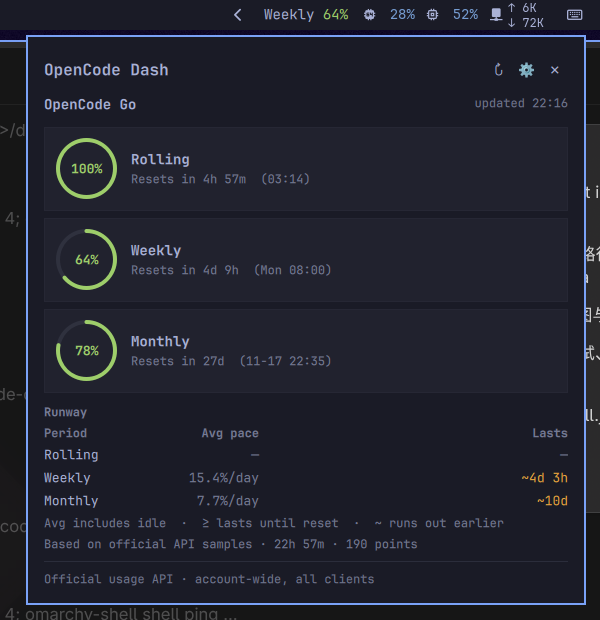
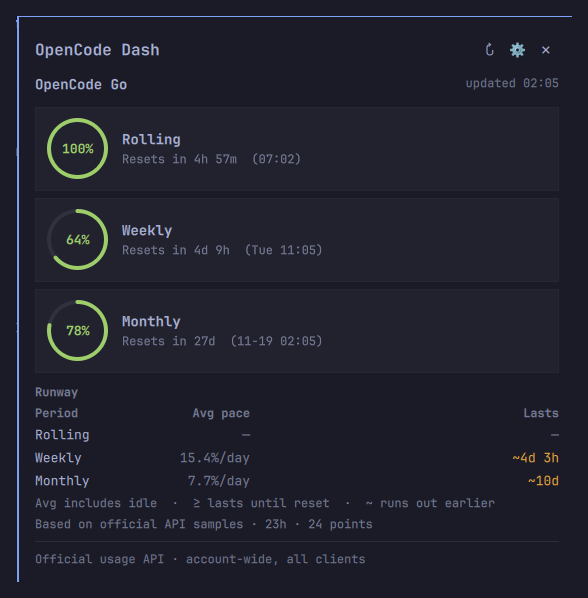
Show all UI states in README screenshots

Changed region(s): [[0.0, 0.0, 1.0, 1.0], [0.4286, 0.3913, 0.551, 0.4515], [0.3367, 0.6622, 0.4286, 0.7224]]

diff --git a/README.md b/README.md
@@ -1,10 +1,20 @@
 # OpenCode Dash
 
-[English](#english) · [中文](#中文)
+[UI](#ui) · [English](#english) · [中文](#中文)
 
-| Dark theme | Light theme |
-|---|---|
-| ![Dark theme](preview.png) | ![Light theme](preview-light.png) |
+## UI
+
+**Bar · 顶栏** — always visible; `worst` and `month` show the period and reset countdown on two lines. / 始终可见；`worst` / `month` 分两行显示周期和重置倒计时。
+![Bar](preview-bar.png)
+
+**Tooltip · 悬停提示** — hover for all periods, reset countdowns, and runway. / 悬停查看三个周期、重置倒计时和 runway。
+![Tooltip](preview-tooltip.png)
+
+**Panel · 面板** — click for quota cards, reset times, and runway. / 点击查看额度卡片、重置时间和 runway。
+![Panel](preview.png)
+
+**Settings · 设置** — gear in the panel or right-click the widget. / 面板齿轮或右键打开。
+![Settings](preview-settings.png)
 
 ## English
 
@@ -16,10 +26,12 @@ any future agent.
 ### Features
 
 - Bar display: `worst` (least remaining), `all` periods, or `month` only.
+- In `worst` / `month` modes the bar shows the period on its own line and the
+  percentage + reset countdown below it; `all` mode stays on one line.
 - Remaining percentage by default; switch to used in the settings.
-- Status colors: healthy green, remaining ≤ 20% amber, ≤ 10% red with `!`.
-  In single-period modes the percentage and reset countdown share the status
-  color; the period label stays dim.
+- Status colors (defaults): healthy green, remaining ≤ 20% amber, ≤ 10% red
+  with `!`. In single-period modes the percentage and reset countdown share the
+  status color; the period label stays dim.
 - Panel: three quota periods, reset times/countdowns, and a Runway table
   (`Period · Avg pace · Lasts`) projecting how long the current rate can last.
 - Threshold notifications through `notify-send`, deduplicated per period,
@@ -34,8 +46,8 @@ any future agent.
 
 | Layer | Interaction | What it shows | Purpose |
 |---|---|---|---|
-| Bar | always visible | the tightest period | notice at a glance |
-| Tooltip | hover | three periods + one forecast | a 3-second check |
+| Bar | always visible | the selected bar view (`worst`, `all`, or `month`) with reset countdowns | notice at a glance |
+| Tooltip | hover | three periods, reset countdowns, and runway estimates | a 3-second check |
 | Panel | click | the same facts + context + controls | inspect and adjust |
 
 The tooltip is a read-only preview of the same `report` the panel uses, so the
@@ -121,7 +133,7 @@ fields.
 | Key | Type | Default | Description |
 |---|---|---|---|
 | `refreshIntervalSec` | integer | `300` | Refresh interval, 60–3600 seconds |
-| `barWindows` | enum | `worst` | `worst`, `all`, or `month` |
+| `barWindows` | enum | `worst` | `worst`, `all`, or `month`; horizontal bar only (vertical always shows the worst period) |
 | `percentMode` | enum | `remaining` | `remaining` or `used` |
 | `warnRemaining` | integer | `20` | Warn below this remaining percentage |
 | `critRemaining` | integer | `10` | Critical below this remaining percentage |
@@ -134,7 +146,8 @@ In `worst` and `month` modes a horizontal bar shows the period name on its own
 line, with the percentage and the reset countdown in parentheses below it
 (`Weekly` / `80% (5d 12h)`). `all` mode stays on one line. In a vertical bar it
 uses the short aliases `5h`, `7d`, and `M`, with the worst period on two lines
-(`7d` / `79%`), to stay readable.
+(`7d` / `79%`), to stay readable; `barWindows` only affects the horizontal
+layout.
 
 OpenCode subscription plans are **OpenCode Go** and **OpenCode Go Plus**.
 **Zen is not a subscription tier**; it is OpenCode's pay-as-you-go console/API
@@ -164,8 +177,9 @@ wall-clock estimate per period:
 - Duration labels: `≥ 4h 18m` means the rate lasts at least until reset (the
   same countdown as `Resets in`); `~3d 8h` means it runs out before reset;
   `0m` means the period is empty.
-- The footer shows the sample basis, e.g.
-  `Based on official API samples · 5h 10m · 106 points`.
+- The panel's Runway footer shows the sample basis, e.g.
+  `Based on official API samples · 5h 10m · 106 points`; the tooltip footer
+  shows the same span as `estimates from ... of samples`.
 - Colors apply to the projected duration:
   - **Green**: remaining is healthy and the rate lasts until reset.
   - **Amber**: remaining is at or below the warn threshold, or the rate
@@ -207,7 +221,8 @@ when the overall pace would last until reset.
   the key cannot follow a redirect and a broken endpoint cannot grow the
   helper without bound.
 - Cache files live in `~/.cache/opencode-dash/` (directory `0700`, files
-  `0600`) and contain percentages, timestamps, and API samples only.
+  `0600`) and contain percentages, timestamps, API samples, and local alert
+  bookkeeping only.
 - Standard `https_proxy` / `HTTPS_PROXY` environment variables are honored;
   no proxy is configured by the plugin itself.
 - No telemetry and no other network destinations.
@@ -227,16 +242,17 @@ cache. Notifications are sent with `notify-send`; no systemd unit is installed.
   `opencode auth login` and choose OpenCode Go, then `omarchy restart shell`.
   An expired credential is fixed the same way.
 - **Values look stale**: the API is unreachable; the last successful reading
-  is shown dimmed. The panel footer says when it was cached.
+  is shown dimmed. The panel shows a stale notice and the last update time; the
+  tooltip adds a `cached at` line.
 - **`Avg pace` says `Collecting`**: there are samples, but not yet 3 points
   over 1 hour (or the period just reset). Official values stay visible; the
-  estimate appears automatically. If the whole Runway table is hidden, the
-  latest sample is stale; check the network/API.
+  estimate appears automatically. The Runway table is hidden when the latest
+  sample is stale or when no period has a numeric rate and none is collecting.
 - **No notifications**: check `notify-send`, your notification daemon, and
   Do Not Disturb. Alerts are deduplicated per period/level/reset.
 - **Check the data layer manually**:
-  `python3 scripts/dash.py --json --force | python3 -m json.tool`
-- **Logs**: `journalctl --user -b --no-pager | grep -i opencode-dash`
+  `python3 scripts/dash.py --json --force --debug | python3 -m json.tool`
+- **QML warnings**: `journalctl --user -b --no-pager | grep -i opencode-dash`
 - After installing or updating, run `omarchy restart shell` once.
 
 ### Development
@@ -259,8 +275,9 @@ For UI state tests, add `"debugFixture": "/path/to/tests/fixtures/report-stale.j
 to the widget's `shell.json` entry. The script then returns that fixture
 instead of real data. Available fixtures: `report-stale.json`,
 `report-no-key.json`, `report-auth-expired.json`, `report-not-ready.json`
-(insufficient samples: `Collecting` / `—`), and `report-idle.json` (flat
-period: both derived cells `—`).
+(insufficient samples: `Collecting` / `—`), `report-idle.json` (flat period:
+both derived cells `—`), and `report-preview.json` (deterministic 100/64/78
+values with weekly/monthly runway for README screenshots).
 Remove the setting when done.
 
 ### Credits and license
@@ -284,9 +301,10 @@ CLI/TUI、ZCode，以及未来任何 Agent。
 ### 功能
 
 - 顶栏显示：`worst`（剩余最少）、`all`（三个周期）、`month`（只看订阅月）。
+- `worst` / `month` 模式下，顶栏分两行显示周期名和“百分比 + 重置倒计时”；`all` 模式保持单行。
 - 默认显示剩余百分比，可在设置里切换为已用。
-- 状态颜色：健康绿色、剩余 ≤ 20% amber、≤ 10% 红色并带 `!`。单周期模式下百分比和
-  重置倒计时共用状态色，周期标签用暗色。
+- 状态颜色（默认）：健康绿色、剩余 ≤ 20% 琥珀色、≤ 10% 红色并带 `!`。单周期模式下
+  百分比和重置倒计时共用状态色，周期标签用暗色。
 - 面板：三个额度周期、重置时间和倒计时，以及 `Period · Avg pace · Lasts` 的
   Runway 表，按当前速度预估还能用多久。
 - 阈值通知由 `notify-send` 发送；按“周期 + 级别 + 重置时间”去重。
@@ -298,8 +316,8 @@ CLI/TUI、ZCode，以及未来任何 Agent。
 
 | 层级 | 交互 | 显示内容 | 目的 |
 |---|---|---|---|
-| 顶栏 | 始终可见 | 最紧周期 | 余光确认 |
-| Tooltip | 悬停 | 三个周期 + 一个预测 | 3 秒快速查看 |
+| 顶栏 | 始终可见 | 当前顶栏视图（`worst` / `all` / `month`）和重置倒计时 | 余光确认 |
+| Tooltip | 悬停 | 三个周期、重置倒计时和 runway 估算 | 3 秒快速查看 |
 | 面板 | 点击 | 同样的事实 + 上下文 + 操作 | 查看并调整 |
 
 Tooltip 是面板同一份 `report` 的只读预览，数字不会分叉。新的详情和操作优先放面板；
@@ -379,7 +397,7 @@ omarchy plugin remove jihonghe.opencode-dash
 | 键 | 类型 | 默认 | 说明 |
 |---|---|---|---|
 | `refreshIntervalSec` | integer | `300` | 刷新间隔，60–3600 秒 |
-| `barWindows` | enum | `worst` | `worst` / `all` / `month` |
+| `barWindows` | enum | `worst` | `worst` / `all` / `month`；仅横向顶栏（垂直顶栏始终显示最紧周期） |
 | `percentMode` | enum | `remaining` | `remaining` / `used` |
 | `warnRemaining` | integer | `20` | 剩余低于此百分比时警告 |
 | `critRemaining` | integer | `10` | 剩余低于此百分比时严重警告 |
@@ -390,7 +408,7 @@ omarchy plugin remove jihonghe.opencode-dash
 顶栏使用官方周期名：`Rolling` / `Weekly` / `Monthly`。在 `worst` / `month` 模式下，
 横向顶栏把周期名单独放在一行，下面显示百分比和括号内的重置倒计时，例如
 `Weekly` / `80% (5d 12h)`；`all` 模式保持单行。垂直顶栏为节省宽度使用短标签
-`5h` / `7d` / `M`，并分两行显示最紧周期（`7d` / `79%`）。
+`5h` / `7d` / `M`，并分两行显示最紧周期（`7d` / `79%`）；`barWindows` 只影响横向布局。
 
 OpenCode 的订阅套餐只有 **OpenCode Go** 和 **OpenCode Go Plus**。**Zen 不是订阅套餐**，
 它是 OpenCode 的按量计费 console/API 平台。API 不返回当前套餐类型，所以设置里的下拉框
@@ -408,18 +426,18 @@ OpenCode 的订阅套餐只有 **OpenCode Go** 和 **OpenCode Go Plus**。**Zen 
   （`≤ max(15 min, 2 × 刷新间隔)`）。在此之前，`Avg pace` 格显示 `Collecting`，
   `Lasts` 显示 `—`，官方列仍然可见；满 1 小时后自动出现估算。
 - 没有正速率的周期，`Avg pace` 和 `Lasts` 都显示 `—`（空闲、flat、滑出或不可用）。
-  不会出现“有速率才有时长”之外的组合。所有周期都没有正速率、也没有 `Collecting` 时，
-  整张 Runway 表隐藏。
+  没有正速率时不会显示时长；所有周期都没有正速率、也没有 `Collecting` 时，整张
+  Runway 表隐藏。
 - 时长标签：`≥ 4h 18m` 表示按当前速度至少能撑到重置（和 `Resets in` 使用同一个
   倒计时）；`~3d 8h` 表示会在重置前用完；`0m` 表示已经为空。
-- 底部显示样本依据，例如
+- 面板 Runway 底部显示样本依据，例如
   `Based on official API samples · 5h 10m · 106 points`。
 - 颜色加在“预计时长”上：
   - **绿色**：剩余健康，且按当前速度能撑到重置。
-  - **amber**：剩余已到/低于警告阈值，或按当前速度会在重置前耗尽。
+  - **琥珀色**：剩余已到/低于警告阈值，或按当前速度会在重置前耗尽。
   - **红色**：剩余已到/低于严重阈值，或周期已经为空。
 - 百分比颜色表达**当前剩余**，Runway 颜色表达**预测**。两者可以不同：绿色百分比 +
-  amber runway 表示“还剩不少，但当前速度会在重置前用完”。
+  琥珀色 runway 表示“还剩不少，但当前速度会在重置前用完”。
 - 完全空闲或 flat 的周期，两个衍生列都显示 `—`，不再显示 `0.0%/h`；
   官方百分比和重置时间仍然保留。
 - Tooltip 的 `Resets in` 列只显示倒计时（`2m`、`5d 2h`）；面板显示
@@ -445,7 +463,7 @@ OpenCode 的订阅套餐只有 **OpenCode Go** 和 **OpenCode Go Plus**。**Zen 
 - 请求拒绝 HTTP 重定向，响应体上限 1 MiB；key 不会跟随重定向，异常端点也无法把
   helper 的内存撑爆。
 - 缓存位于 `~/.cache/opencode-dash/`（目录 `0700`，文件 `0600`），只包含百分比、
-  时间和 API 采样。
+  时间、API 采样和本地告警去重状态。
 - 尊重标准 `https_proxy` / `HTTPS_PROXY` 环境变量；插件本身不硬编码代理。
 - 无遥测，不访问其他网络地址。
 
@@ -461,16 +479,16 @@ OpenCode 的订阅套餐只有 **OpenCode Go** 和 **OpenCode Go Plus**。**Zen 
 - **顶栏显示 `—`**：先运行 `opencode auth list`；如果没有凭据，运行
   `opencode auth login` 并选择 OpenCode Go，然后 `omarchy restart shell`。
   登录过期也用同样方式重新登录。
-- **数值看起来是旧的**：API 不可达，显示上次成功读数并变暗；面板底部会标注缓存
-  时间。
+- **数值看起来是旧的**：API 不可达，显示上次成功读数并变暗；面板会显示 stale 提示和
+  最后更新时间，tooltip 额外显示 `cached at`。
 - **`Avg pace` 显示 `Collecting`**：已有采样，但还没满足 3 个点、跨度 1 小时
-  （或该周期刚重置）。官方数值仍然可见，估算会自动出现。整张 Runway 表隐藏
-  表示最新样本已过期，检查网络/API。
+  （或该周期刚重置）。官方数值仍然可见，估算会自动出现。最新样本过期，或没有任何
+  周期可估算/正在采集时，整张 Runway 表隐藏。
 - **没有通知**：检查 `notify-send`、通知守护进程和勿扰模式。通知按周期/级别/
   重置时间去重。
 - **手动检查数据层**：
-  `python3 scripts/dash.py --json --force | python3 -m json.tool`
-- **日志**：`journalctl --user -b --no-pager | grep -i opencode-dash`
+  `python3 scripts/dash.py --json --force --debug | python3 -m json.tool`
+- **QML 警告**：`journalctl --user -b --no-pager | grep -i opencode-dash`
 - 安装或更新后执行一次 `omarchy restart shell`。
 
 ### 开发
@@ -493,7 +511,8 @@ omarchy plugin validate .
 `"debugFixture": "/path/to/tests/fixtures/report-stale.json"`，脚本会直接返回该
 fixture。可用 fixture：`report-stale.json`、`report-no-key.json`、
 `report-auth-expired.json`、`report-not-ready.json`（样本不足：`Collecting` / `—`）、
-`report-idle.json`（flat 周期：两列都是 `—`）。用完请删除。
+`report-idle.json`（flat 周期：两列都是 `—`）、`report-preview.json`（README 截图用的
+确定性数据：100/64/78，带 weekly/monthly runway）。用完请删除。
 
 ### 致谢与许可
 

diff --git a/tests/README.md b/tests/README.md
@@ -43,6 +43,8 @@ Available fixtures:
   and `Lasts` shows `—`.
 - `report-idle.json` — one period is flat; both derived columns show `—` for
   that period, while the other periods show numeric estimates.
+- `report-preview.json` — deterministic 100/64/78 values with weekly/monthly
+  runway estimates; used for README screenshots.
 
 Non-stale fixtures are shifted to the current time when loaded, so their
 samples and reset countdowns stay usable. Reload the shell config or restart
